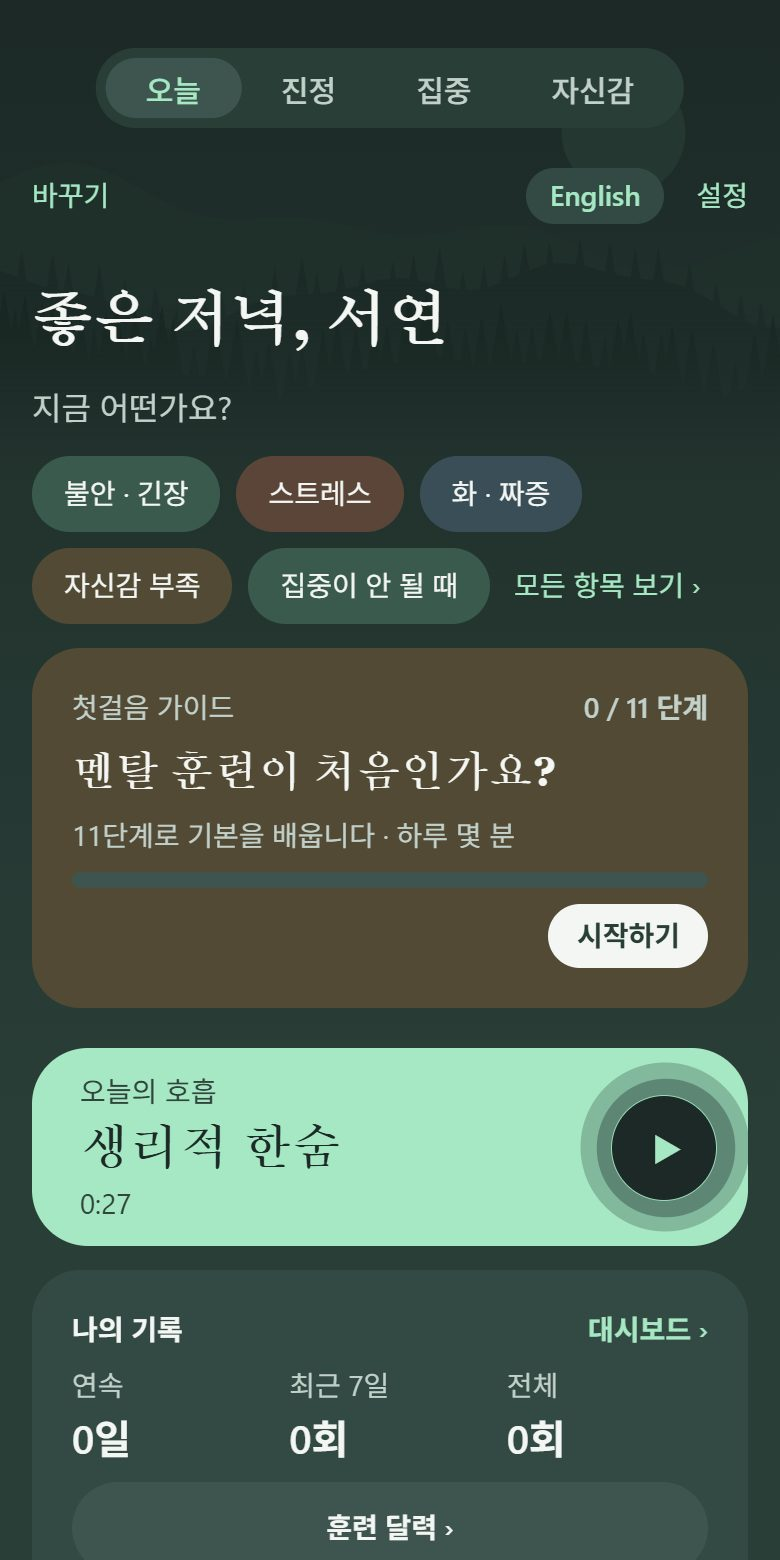
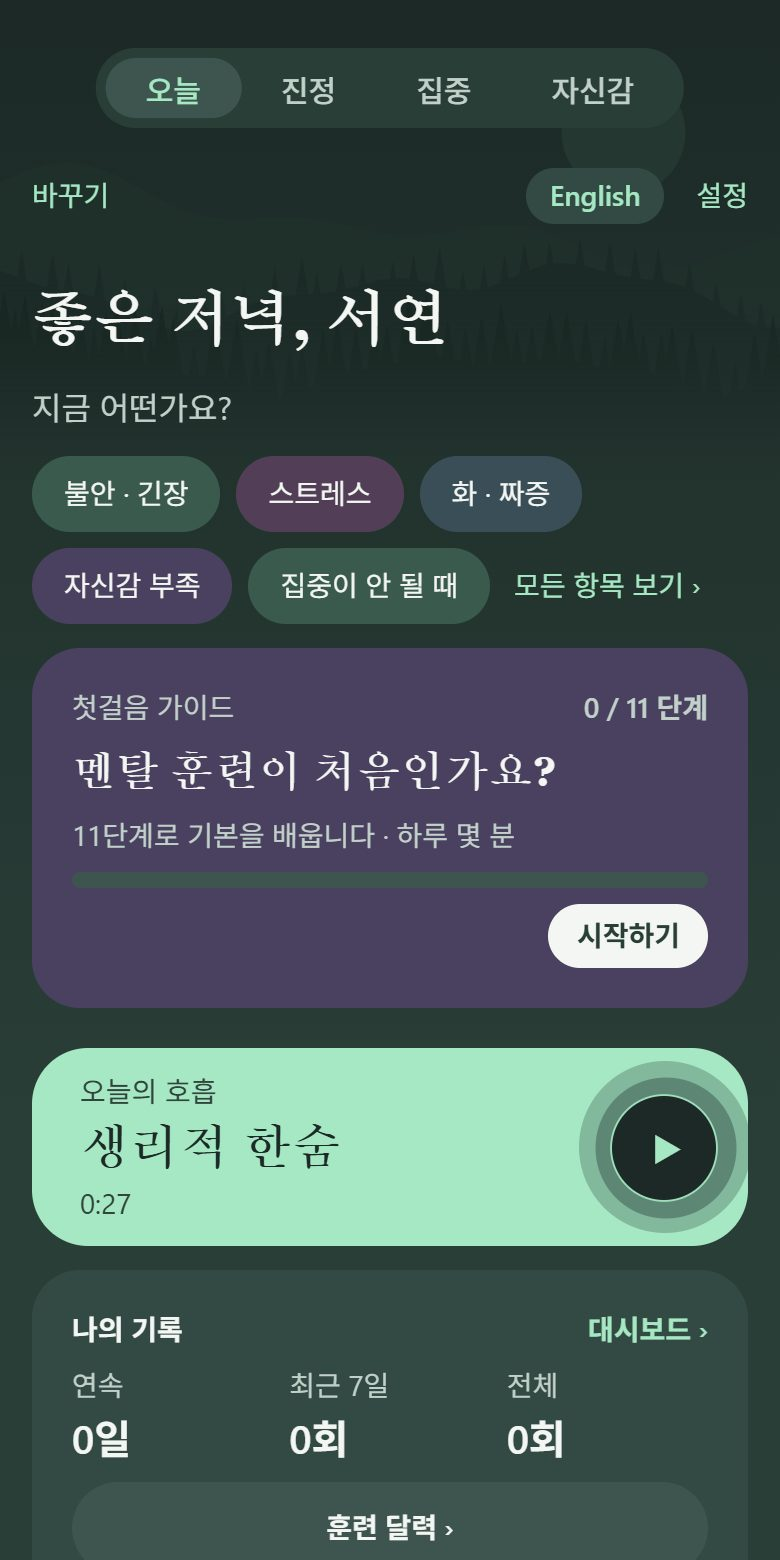
Plum and violet in place of the dark browns, matching the app

Changed region(s): [[0.0308, 0.3385, 0.9846, 0.6462], [0.3077, 0.2769, 0.5231, 0.3385]]

diff --git a/index.html b/index.html
@@ -37,8 +37,8 @@
   --breath: #A6E8C3;
   --glow: #3E5F53;
   --sage: #2F4A41;
-  --peach: #4A3A30;
-  --sand: #1C2926;
+  --peach: #523F57;
+  --sand: #4A4160;
   --mist: #2E414A;
   --dusk: #1C2926;
   --dusk-2: #2F4640;
@@ -226,7 +226,7 @@ legend { font-size: 14px; font-weight: 500; padding: 0; margin-bottom: 6px; }
 .privacy th, .privacy td { text-align: left; border-top: 1px solid var(--line); padding: 10px 12px 10px 0; vertical-align: top; }
 .privacy th { color: var(--fg); font-weight: 500; white-space: nowrap; }
 .privacy p { margin-top: 12px; }
-footer { background: var(--sand); padding-block: 48px; font-size: 14px; color: var(--muted); }
+footer { background: var(--dusk); padding-block: 48px; font-size: 14px; color: var(--muted); }
 footer .wrap { display: grid; grid-template-columns: 1.4fr 1fr 1fr; gap: 32px; }
 footer .wrap > * { min-width: 0; }
 footer h4 { margin: 0 0 10px; color: var(--fg); font-size: 14px; }
